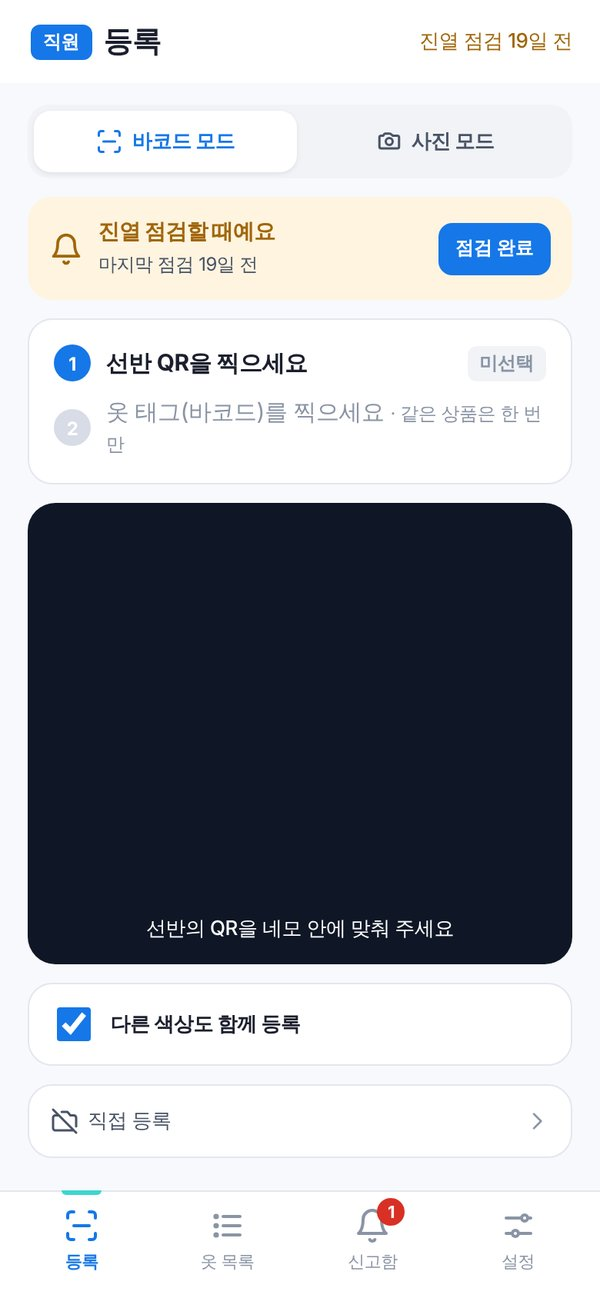
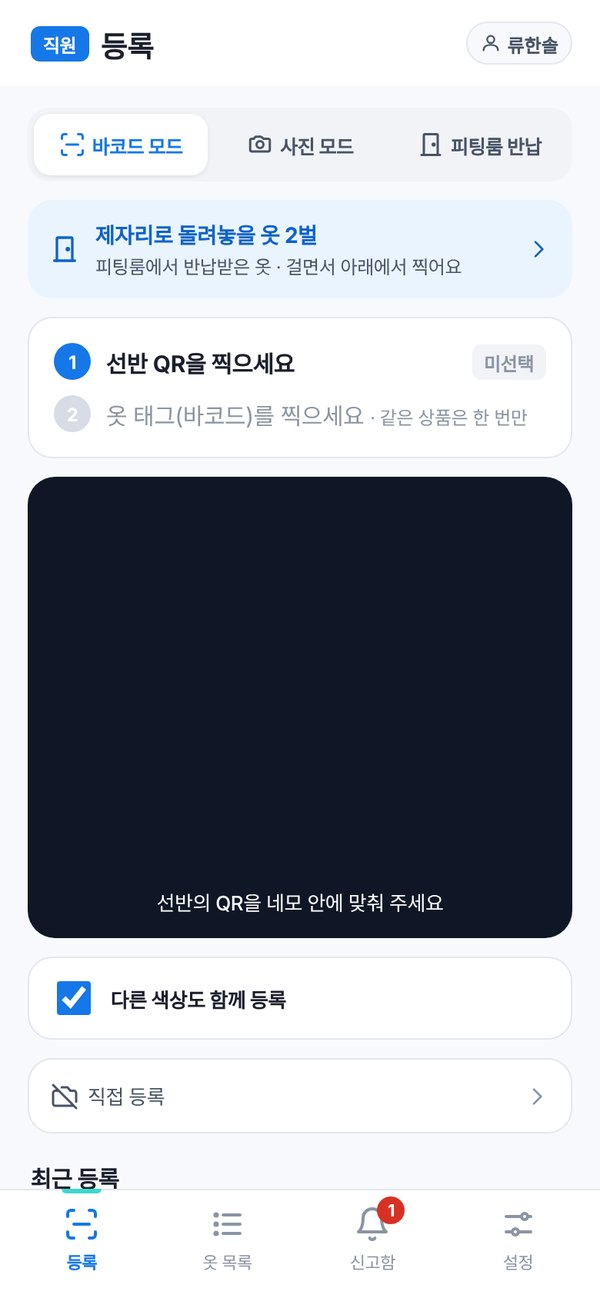
README 최신화: 10주차 사용성 평가 반영 기능 · 화면 사진 갱신
- 손님 · 키오스크 · 직원 화면 사진을 지금 디자인으로 다시 찍음 (unslop 디자인 · 2026.11.10)
- 새 표: 설명으로 찾기 · 찾았어요 되돌리기 · 지도 사진 저장 · 로그인/내 사이즈 · 키오스크 검색 · 지도 다운로드
- 직원 표: 피팅룸 반납 · 옷 목록(삭제 · 되살리기) · 점장 요약
- '사용성 평가 → 바뀐 점' 섹션 (부모님 세대 · 직원 의견 → 변경)
- AI 활용에 '설명으로 찾기' (사전 + Gemini 해석) 추가, 기능 표 갱신

Claude-Session: https://claude.ai/code/session_01Pk6Hz2fHMn63pcDGUjX9Ny

diff --git a/README.md b/README.md
@@ -37,20 +37,53 @@ python app.py                 # http://localhost:5001/go?at=A-H1
 | 홈 | 사진으로 찾기 (AI) | 위치 + 2D 길 안내 | 매장 지도 | English |
 |:---:|:---:|:---:|:---:|:---:|
 | <img src="docs/screens/qr_home.jpg" width="160"> | <img src="docs/screens/qr_photo.jpg" width="160"> | <img src="docs/screens/qr_item.jpg" width="160"> | <img src="docs/screens/qr_map.jpg" width="160"> | <img src="docs/screens/qr_item_en.jpg" width="160"> |
-| 지금 내 자리 · 이번 주 배너<br>· 매장 한눈에 보기 · 추천 | Vision AI가 옷 특징을 뽑고<br>가장 비슷한 옷을 일치도와 함께 | "C구역 · 벽면 선반 · 중단"<br>+ 경로 · 사이즈별 재고 | 피팅룸 · 계산대 · 매대까지<br>거리와 걸리는 시간 | 휴대폰 언어에 맞춰<br>영어 화면 |
+| 지금 내 자리 · 이번 주 배너<br>· 글자 · 말 · 사진 검색 | Vision AI가 옷 특징을 뽑고<br>가장 비슷한 옷을 일치도와 함께 | "C구역 · 벽면 선반 · 중단"<br>+ 경로 · 사이즈별 재고 | 피팅룸 · 계산대 · 매대까지<br>거리와 걸리는 시간 | 휴대폰 언어에 맞춰<br>영어 화면 |
 
-**키오스크 (입구 · 40대 이상)** 와 **직원**
+**사용성 평가 뒤 새로 넣은 기능 (10주차)** — 부모님 세대 · 매장 직원 평가에서 나온 의견을 그대로 반영
 
-| 키오스크 첫 화면 | 키오스크 위치 | 종이 지도 (80mm 감열지) | 직원 등록 | 직원 신고함 |
+| 설명으로 찾기 | 찾았어요 → 되돌리기 · 처음으로 | 지도 사진 저장 · 카톡 | 로그인 · 내 사이즈 | 키오스크 검색 |
 |:---:|:---:|:---:|:---:|:---:|
-| <img src="docs/screens/kiosk_home.jpg" width="170"> | <img src="docs/screens/kiosk_item.jpg" width="170"> | <img src="docs/screens/kiosk_print.jpg" width="250"> | <img src="docs/screens/staff_register.jpg" width="140"> | <img src="docs/screens/staff_reports.jpg" width="140"> |
-| 큰 글씨 · 글자 입력 없이 터치만<br>종류마다 구역 표시 · 매장 한눈에 보기 | 문장 길 안내 + 도면<br>창고에만 있는 사이즈는 가져다 드림 | 도면 + 꺾는 곳마다 번호 안내<br>(왼쪽 → 오른쪽 순서) | 선반 QR → 옷 태그<br>연속 스캔으로 위치 등록 | 손님 신고 · 호출 확인<br>+ 한 번에 도는 경로 |
+| <img src="docs/screens/qr_desc.jpg" width="160"> | <img src="docs/screens/qr_found.jpg" width="160"> | <img src="docs/screens/qr_mapsave.jpg" width="160"> | <img src="docs/screens/qr_me.jpg" width="160"> | <img src="docs/screens/kiosk_search.jpg" width="180"> |
+| 옷 이름을 몰라도 "허리 고무줄<br>있는 편한 바지"처럼 말하면 찾음 | 잘못 눌렀으면 되돌리기,<br>원하면 바로 첫 화면으로 | 위치 · 지도를 사진 한 장으로<br>사진첩 저장 · 카카오톡 공유 | 다른 휴대폰에서도 내 사이즈<br>→ 상품마다 "내 사이즈 M · 4벌" | 화면 키보드 · 많이 찾는 옷<br>· 말로 찾기 |
+
+**키오스크 (입구 · 40대 이상)**
+
+| 첫 화면 | 결과에서 바로 좁히기 | 위치 | 지도 다운로드 | 종이 지도 (80mm 감열지) |
+|:---:|:---:|:---:|:---:|:---:|
+| <img src="docs/screens/kiosk_home.jpg" width="170"> | <img src="docs/screens/kiosk_result.jpg" width="170"> | <img src="docs/screens/kiosk_item.jpg" width="170"> | <img src="docs/screens/kiosk_download.jpg" width="170"> | <img src="docs/screens/kiosk_print.jpg" width="250"> |
+| 큰 글씨 · 터치만으로 종류 선택<br>+ 「검색」 버튼 | 색 · 핏 · 무늬를 결과 화면에서<br>골라 단계를 줄임 | 문장 길 안내 + 도면<br>창고에만 있는 사이즈는 가져다 드림 | QR을 찍으면 휴대폰에<br>같은 위치 안내가 열림 | 도면 + 꺾는 곳마다 번호,<br>옷이 없으면 직원 호출 QR |
+
+**직원**
+
+| 등록 | 신고함 | 피팅룸 반납 | 옷 목록 | 점장 요약 |
+|:---:|:---:|:---:|:---:|:---:|
+| <img src="docs/screens/staff_register.jpg" width="150"> | <img src="docs/screens/staff_reports.jpg" width="150"> | <img src="docs/screens/staff_fitting.jpg" width="150"> | <img src="docs/screens/staff_items.jpg" width="150"> | <img src="docs/screens/staff_summary.jpg" width="150"> |
+| 선반 QR → 옷 태그 연속 스캔<br>· 위치 없는 옷 목록 | 기다리는 손님 · 고칠 선반 번호<br>· '제가 갈게요' · 처리한 사람 | 반납 때 태그를 찍으면<br>손님 화면에 반납 안내 | 종류별 · 선반별 보기<br>· 삭제 · 되살리기 | 찾은 비율 · 할 일<br>· 입어 보기만 한 옷 순위 |
 
 **PC · 노트북에서 열면** — 고객 · 직원 화면은 휴대폰 틀, 키오스크는 32인치 세로형(1080×1920) 틀 안에서 스크롤해 볼 수 있습니다 (`?noframe=1`이면 틀 없이).
 
 <p align="center"><img src="docs/screens/pc_frames.jpg" width="720"></p>
 
-> 화면은 모두 이 저장소의 코드를 실행해 캡처했습니다 (2026.11). 신고함 숫자는 시연 모드(`/demo`)의 예시 데이터, 사진으로 찾기는 실제 Gemini 응답을 저장해 둔 결과입니다.
+> 화면은 모두 이 저장소의 코드를 실행해 캡처했습니다 (2026.11.10). 신고함 숫자는 시연 모드(`/demo`)의 예시 데이터, 사진으로 찾기는 실제 Gemini 응답을 저장해 둔 결과입니다.
+
+---
+
+## 사용성 평가 → 바뀐 점 (10주차)
+
+닐슨의 사용성 10원칙(휴리스틱 평가)으로 화면을 점검하고, **부모님 세대**(관찰법 · 면접법)와 **매장 직원**(직원 앱 사용 후 면접)에게 직접 써 보게 했습니다.
+
+| 누가 | 들은 의견 | 바꾼 점 |
+|---|---|---|
+| 부모님 세대 | 키오스크에도 검색이 필요하다 · 단계가 너무 많다 | 첫 화면 「검색」 (화면 키보드 · 많이 찾는 옷 · 말로 찾기), 색 고르는 단계를 결과 화면 칩으로 합침 |
+| 부모님 세대 | 음성으로 찾고 싶다 · 옷 이름을 모를 때 설명으로 찾고 싶다 | 검색창 마이크 + **설명으로 찾기** (아래 AI 활용 3) |
+| 부모님 세대 | 카카오톡으로 지도를 받고 싶다 | 「지도 사진으로 저장 · 카톡으로 보내기」, 키오스크 「지도 다운로드」 QR |
+| 부모님 세대 | '찾았어요'가 무슨 버튼인지 모르겠다 · 잘못 눌렀다 | 버튼 위 안내 문구, 누른 뒤 되돌리기 · 처음 화면으로 |
+| 부모님 세대 | 내 사이즈를 매번 입력하기 번거롭다 | 로그인(선택)과 MY '내 사이즈' 저장 → 상품마다 내 사이즈 재고 표시 |
+| 직원 | 지도에 동선보다 위치만 · 누가 처리하러 가는지 보였으면 | 고칠 선반은 번호만(동선은 버튼), 직원 이름 → '제가 갈게요' · 'OO 처리 중' · 처리 기록 |
+| 직원 | 피팅룸에 두고 간 옷은 어떻게 하나 | 반납 때 태그 스캔 → 손님 화면에 '피팅룸에 반납된 옷이 있어요', 제자리에 걸며 다시 스캔하면 해제 |
+| 직원 | 큰 매장은 늘 바빠서 바쁨 모드가 의미 없다 | 대형 매장은 바쁨 모드 대신, 기다리는 손님 3명 이상이면 손님 화면에 '조금 늦을 수 있어요' |
+| 직원 | 등록의 '없어요'와 신고함 '위치 고칠 것'이 겹친다 · 오래된 위치는 필요 없다 | 손님 신고는 신고함에서만, 등록 화면은 위치 없는 옷만 · 오래된 위치 탭 삭제 |
+| 직원 | 옷 목록에서 옷을 지울 수 있어야 한다 | 옷 삭제 + 「삭제한 옷」에서 재고 · 위치까지 되살리기 |
 
 ---
 
@@ -76,7 +109,7 @@ python app.py                 # http://localhost:5001/go?at=A-H1
 
 - **측위 장비 없음** — QR 하나하나에 자기 자리(`/go?at=A-H1`)가 담겨 있어, 찍는 순간 출발점이 정해집니다. GPS · 비콘 · RFID가 필요 없습니다.
 - **좌표가 아니라 구역 · 집기 · 단으로 안내** — 옷이 근처로 옮겨져도 안내가 유효합니다.
-- **매장을 바꾸지 않음** — 기존 매장에 QR 스티커와 태블릿만 더하면 됩니다. 결제 · 로그인 · 앱 설치도 없습니다.
+- **매장을 바꾸지 않음** — 기존 매장에 QR 스티커와 태블릿만 더하면 됩니다. 앱 설치 · 결제가 없고, 로그인은 내 사이즈를 저장하고 싶을 때만 합니다.
 
 ---
 
@@ -117,7 +150,24 @@ python app.py                 # http://localhost:5001/go?at=A-H1
 | 사람이 입은 사진 · 여러 벌 · 조명 때문에 엉뚱한 옷 · 색을 고름 | "사람은 무시", "가장 크고 가운데", "그림자 · 반사 무시", 헷갈리는 색 이름 규칙 추가 |
 | 폰 사진이 옆으로 눕고, 같은 사진을 또 호출 | 회전 보정 + 사진 해시 **캐시**. AI 오류 · 한도 초과 때는 대표 색 검색으로 자동 전환 |
 
-### 2. 만드는 과정 — Claude와 함께 개발
+### 2. 서비스 안 — 옷 이름을 몰라도 설명으로 찾기 ([`search.py`](search.py) · [`vision.py`](vision.py) `interpret`)
+
+```
+"허리 고무줄 있는 편한 바지" (글자 · 말) → ① 생김새 사전 → 못 알아들으면 ② Gemini가 매장 분류표에서 고름 → 같은 점수 비교
+```
+
+- **① 생김새 사전** — "정장 바지 → 슬랙스", "모자 달린 → 후드티", "목까지 올라오는 → 니트", "헐렁한 → 오버핏"처럼 손님이 실제로 쓰는 표현을 사전으로. AI 없이 바로 찾습니다.
+- **② Gemini 해석** — 사전으로 종류를 모르는 긴 설명("엄마가 회사 갈 때 입는 밝은 바지")만 AI에게 보냅니다. 사진 검색처럼 **정해진 단어 목록(JSON 스키마) 안에서만** 고르게 하고, 결과 위에 "설명을 알아듣고 찾았어요 · 베이지 · 슬랙스"로 알아들은 내용을 보여 줍니다.
+- AI가 실패하면 사전 결과를 그대로 보여 주고 1분 동안은 AI를 건너뜁니다 (손님이 기다리지 않게).
+
+```text
+너는 의류 매장 직원이다. 손님이 옷 이름을 몰라서 생김새로 설명했다. 매장 분류표에서 가장 가까운 것을 고른다.
+- 말에 없는 것은 '모름' (색을 말하지 않았으면 color=모름, 핏을 말하지 않았으면 fit=알수없음).
+- 예: "허리에 고무줄 있는 편한 바지" → 하의/조거팬츠, "모자 달리고 앞에 지퍼" → 아우터/후드집업
+- 옷과 관계없는 말이면 is_clothing=false.
+```
+
+### 3. 만드는 과정 — Claude와 함께 개발
 
 팀원 모두 파이썬 기초 수준이라, 원하는 기능을 Claude에게 말로 설명하고 결과를 확인한 뒤 다시 고쳐 달라고 하는 방식으로 만들었습니다.
 웹 서버 · 화면 · 매장 도면과 길찾기 · 영어 화면 · Figma 화면 설계, 설문 100명과 직원 인터뷰 분석까지 함께 했고, 커밋 기록에 `Co-Authored-By: Claude`로 남아 있습니다.
@@ -130,17 +180,22 @@ python app.py                 # http://localhost:5001/go?at=A-H1
 
 | 주소 | 누구 | 내용 |
 |---|---|---|
-| `/go?at=A-H1` | 손님 (QR) | 홈 — 글자 · 사진(AI) 검색, 이번 주 배너(구역 · 거리), 종류 바로가기, 매장 한눈에 보기, 추천 옷, 인기 · 급상승 검색어 |
-| `/search` · `/cats` | 손님 | 종류 · 색 · 핏 · 무늬 필터(딱 맞는 옷은 가까운 순) · 종류별 사진 타일과 진열 위치 |
-| `/item/<sku>` | 손님 | 구역 · 집기 · 단 위치, 2D 길 안내, 사이즈별 매장 · 창고 재고, **찾았어요! / 찾는 게 없나요?** |
+| `/go?at=A-H1` | 손님 (QR) | 홈 — 글자 · 말 · 사진(AI) 검색, 이번 주 배너(구역 · 거리), 종류 바로가기, 매장 한눈에 보기, 추천 옷, 인기 · 급상승 검색어 |
+| `/search` · `/cats` | 손님 | 이름 · 생김새 설명으로 찾기(사전 + AI), 종류 · 색 · 핏 · 무늬 필터(딱 맞는 옷은 가까운 순) · 종류별 사진 타일 |
+| `/item/<sku>` | 손님 | 구역 · 집기 · 단 위치, 2D 길 안내, 사이즈별 매장 · 창고 재고(내 사이즈 표시), 지도 사진 저장 · 카톡, **찾았어요!**(되돌리기 · 처음으로) **/ 찾는 게 없나요?** |
 | `/map` | 손님 | 매장 지도 — 피팅룸 · 계산대 · 신상 · 할인 매대까지 길 안내 (거리 · 걸리는 시간) |
-| `/likes` · `/me` | 손님 | 찜목록(구역 순으로 모아 보기) · 내 사이즈(휴대폰에만 저장) |
-| `/kiosk` | 키오스크 | 큰 글씨 · 터치만으로 종류 → 세부 종류 → 색, 구역 표시 · 신상 · 세일 칸 · 매장 한눈에 보기 |
+| `/likes` · `/me` | 손님 | 찜목록(구역 순으로 모아 보기) · MY 내 사이즈(상의 · 하의 · 신발) · 키 · 몸무게 |
+| `/login` · `/signup` | 손님 | 선택 로그인 — 다른 휴대폰에서도 내 사이즈 불러오기 (비밀번호는 해시로만 저장, 5번 틀리면 5분 잠금) |
+| `/kiosk` | 키오스크 | 큰 글씨 · 터치만으로 종류 → 세부 종류, 「검색」(화면 키보드 · 많이 찾는 옷 · 말로), 결과에서 색 · 핏 · 무늬로 좁히기 |
+| `/kiosk/item/<sku>` | 키오스크 | 위치 · 문장 길 안내, 창고 사이즈 요청, 「지도 다운로드」 QR |
 | `/kiosk/place/<FIT·COUNTER>` | 키오스크 | 피팅룸 · 계산대 가는 길 |
-| `/kiosk/print/<sku>` | 키오스크 | 80mm 감열지 종이 지도 출력 (옷 QR 포함) |
-| `/staff` | 직원 | 선반 QR → 옷 태그 연속 스캔 등록, 사진 한 장으로 상품 등록(AI가 특징 입력) |
-| `/staff/reports` | 직원 | 기다리는 손님 · 위치 고칠 것 · 한 번에 도는 길, 잠금화면 알림 · 2분 미응답 재알림 |
-| `/staff/summary` | 점장 | 찾은 비율 · 할 일 · 자주 못 찾는 자리 지도 |
+| `/kiosk/print/<sku>` | 키오스크 | 80mm 감열지 종이 지도 출력 (옷이 없으면 직원 호출 QR) |
+| `/staff` | 직원 | 선반 QR → 옷 태그 연속 스캔 등록, 위치 없는 옷 목록, 사진 한 장으로 상품 등록(AI가 특징 입력) |
+| `/staff/fitting` | 직원 | 피팅룸 반납 스캔 → 손님 화면 안내 · 제자리로 돌려놓을 옷 목록 |
+| `/staff/items` | 직원 | 옷 목록(종류별 · 선반별) · 정보 수정 · 삭제 · 되살리기 |
+| `/staff/reports` | 직원 | 기다리는 손님 · 고칠 선반(번호만 · 동선 보기) · '제가 갈게요' · 처리한 사람 기록 · 제자리로 돌려놓을 옷 |
+| `/staff/summary` | 점장 | 찾은 비율 · 할 일 · 자주 못 찾는 자리 지도 · 입어 보기만 하고 안 산 옷 |
+| `/staff/settings` | 직원 | 매장 유형(대형은 바쁨 모드 대신 붐빔 안내) · 근무 인원 · 직원 이름 명단 |
 | `/lang` | 공통 | 손님 · 키오스크 · 직원 화면별 한국어 / English 전환 |
 
 **위치가 틀렸을 때** — 손님 2명이 "여기에 옷이 없어요"를 누르면 그 위치를 안내에서 내리고, 직원이 고치면 다시 보입니다. 화면에는 언제 등록된 위치인지 늘 함께 표시합니다.
@@ -151,8 +206,8 @@ python app.py                 # http://localhost:5001/go?at=A-H1
 
 ```
 app.py            웹 서버 (손님 · 키오스크 · 직원 화면 + API)
-vision.py         사진 → Gemini → 특징(JSON) → 비슷한 옷 순위
-search.py         글자 검색 (한국어 · 영어 색 · 종류 · 핏 사전)
+vision.py         사진 · 설명 → Gemini → 특징(JSON) → 비슷한 옷 순위
+search.py         글자 · 말 검색 (한국어 · 영어 색 · 종류 · 핏 사전 + 생김새 설명 사전)
 i18n.py           영어 화면
 static/frame.js   PC에서 열면 휴대폰 · 키오스크 모양 틀로 보여 주기
 store_map.py      매장 도면 (5개 구역 · 집기 21개 · 피팅룸 · 창고 · 계산대)
